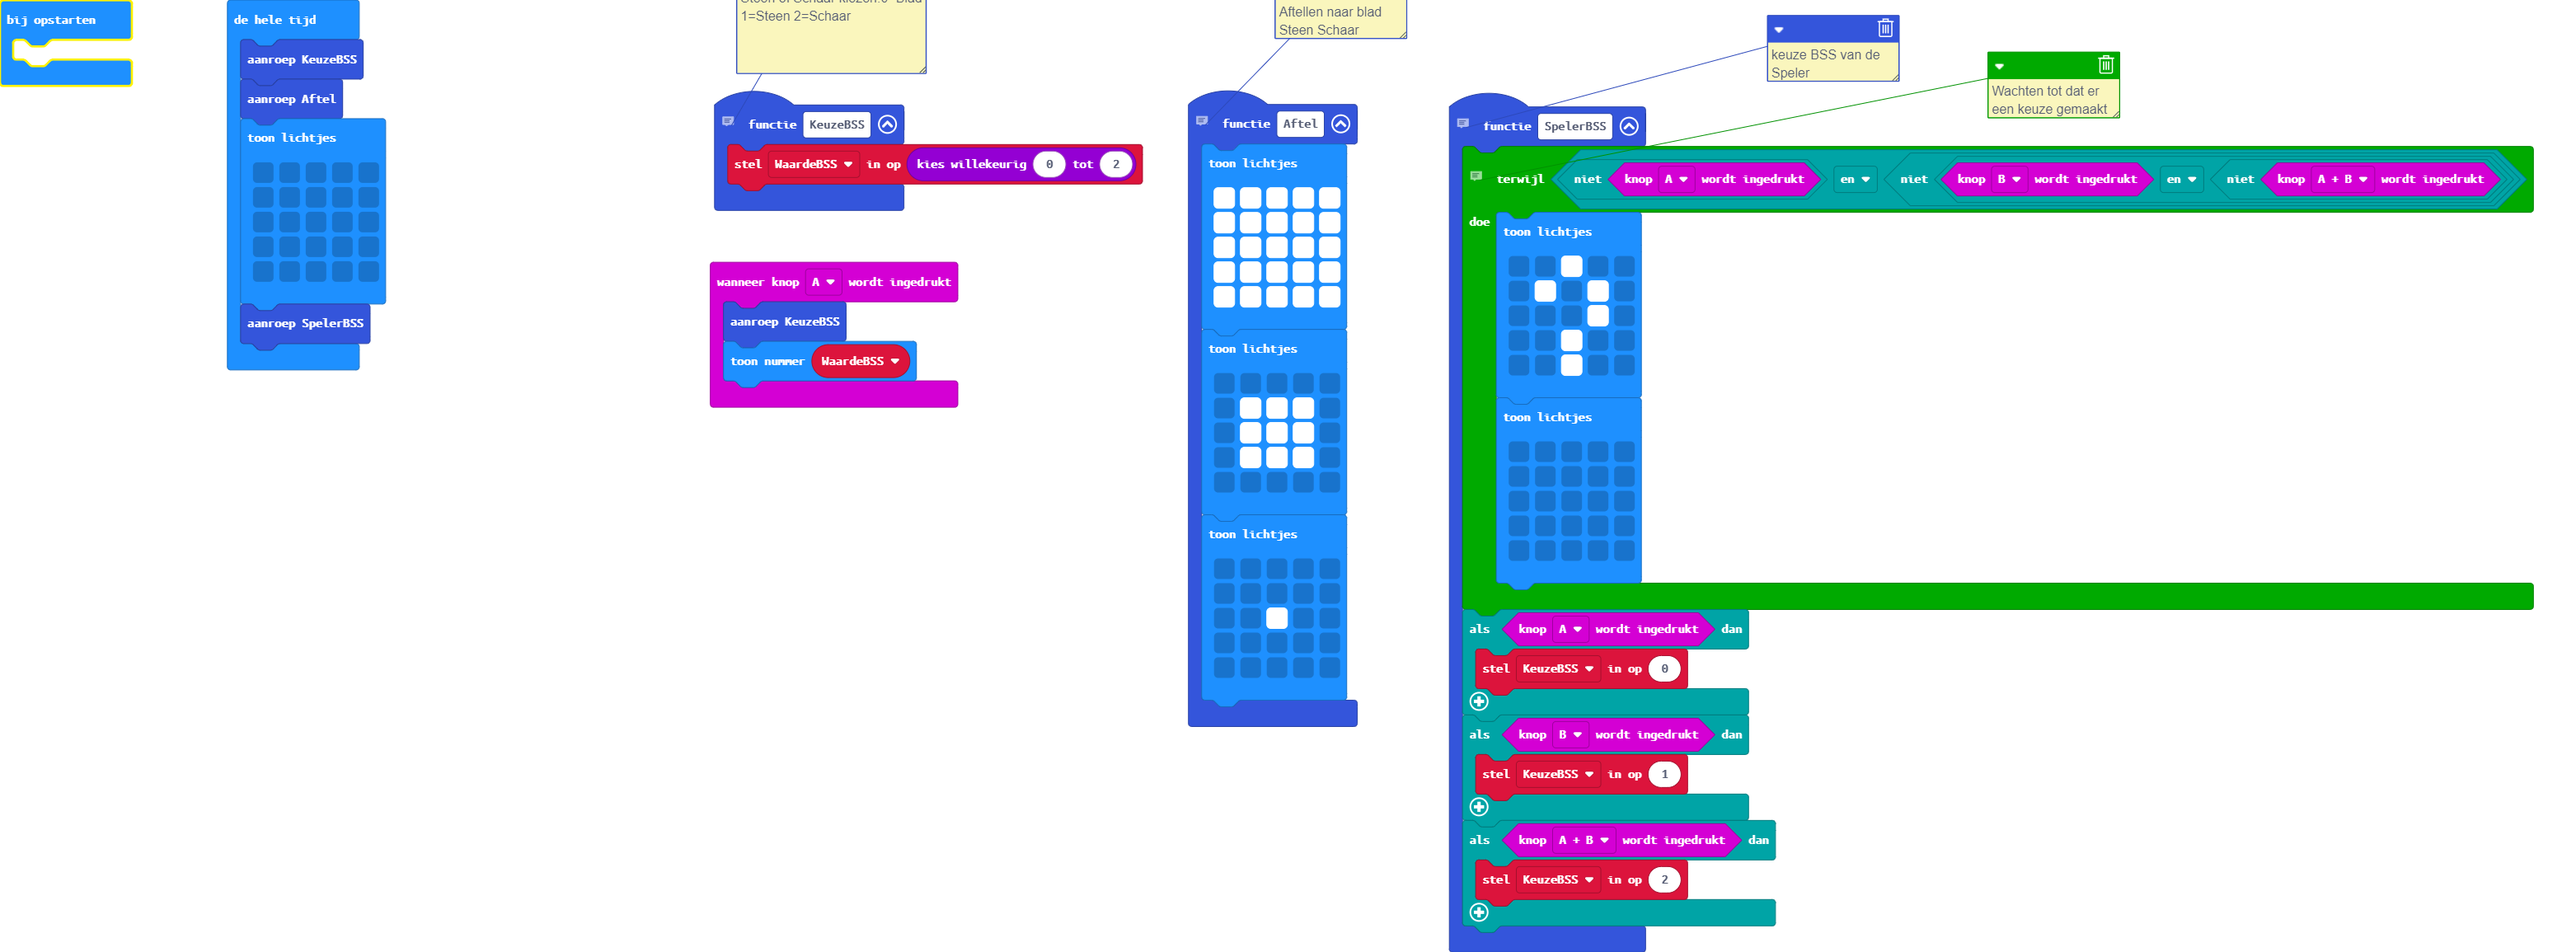
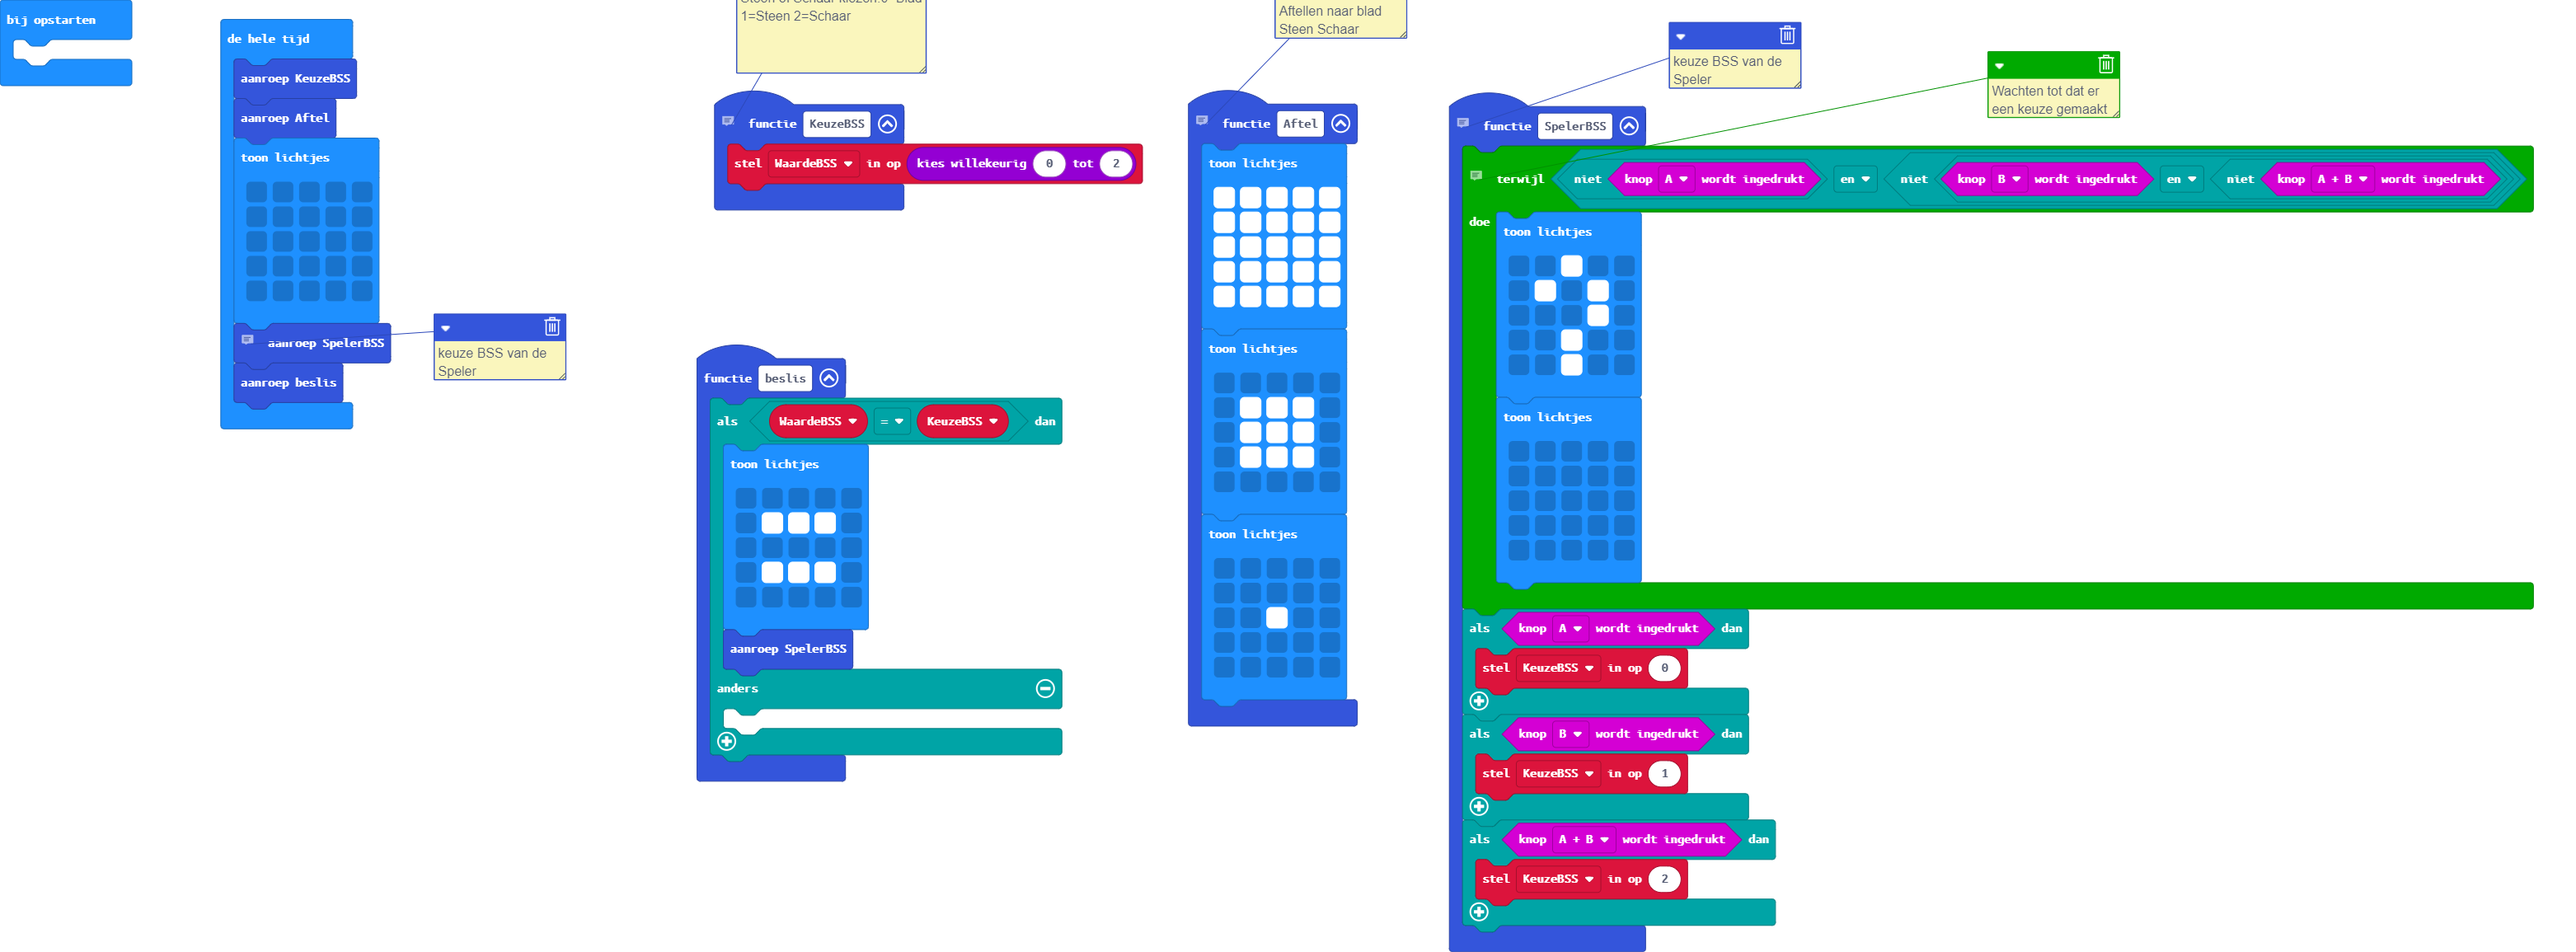
Update main.blocks, main.ts

diff --git a/main.ts b/main.ts
@@ -29,10 +29,6 @@ function SpelerBSS () {
         KeuzeBSS2 = 2
     }
 }
-input.onButtonPressed(Button.A, function () {
-    KeuzeBSS()
-    basic.showNumber(WaardeBSS)
-})
 // Laat de microbit zijn Blad Steen of Schaar kiezen.0=Blad 1=Steen 2=Schaar
 function KeuzeBSS () {
     WaardeBSS = randint(0, 2)
@@ -61,6 +57,20 @@ function Aftel () {
         . . . . .
         `)
 }
+function beslis () {
+    if (WaardeBSS == KeuzeBSS2) {
+        basic.showLeds(`
+            . . . . .
+            . # # # .
+            . . . . .
+            . # # # .
+            . . . . .
+            `)
+        SpelerBSS()
+    } else {
+    	
+    }
+}
 basic.forever(function () {
     KeuzeBSS()
     Aftel()
@@ -71,5 +81,7 @@ basic.forever(function () {
         . . . . .
         . . . . .
         `)
+    // keuze BSS van de Speler
     SpelerBSS()
+    beslis()
 })
